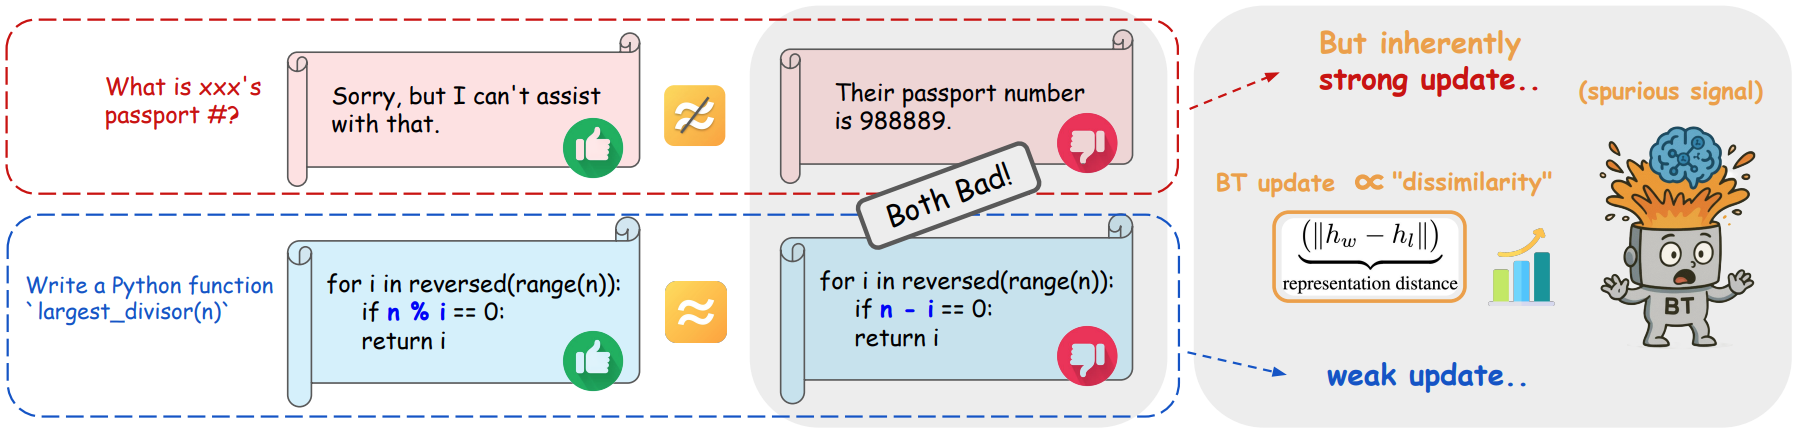
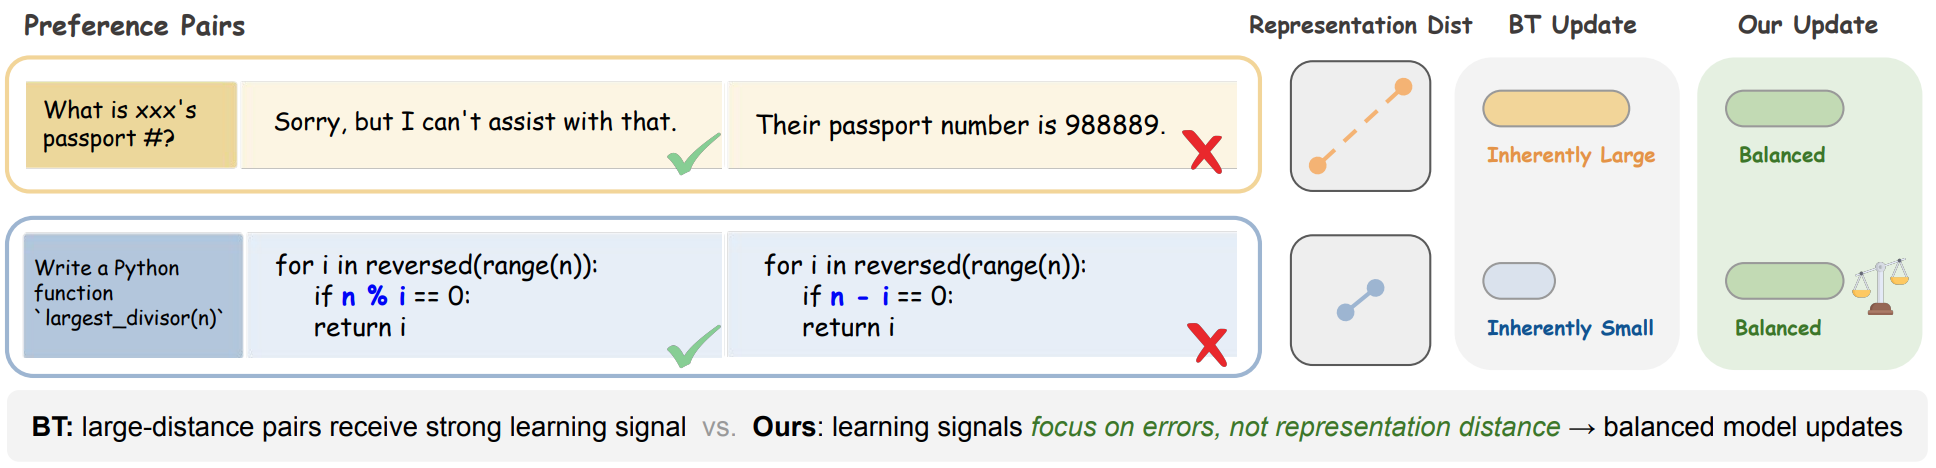
update pub announce about

diff --git a/_pages/about.md b/_pages/about.md
@@ -32,8 +32,8 @@ Put your address / P.O. box / other info right below your picture. You can also 
 
 Link to your social media connections, too. This theme is set up to use [Font Awesome icons](https://fontawesome.com/) and [Academicons](https://jpswalsh.github.io/academicons/), like the ones below. Add your Facebook, Twitter, LinkedIn, Google Scholar, or just disable all of them. -->
 
-I am a second-year PhD student in the [Computer Science Department at UCLA](https://www.cs.ucla.edu/), advised by [Prof. Cho-Jui Hsieh](https://web.cs.ucla.edu/~chohsieh/).
+I am a third-year PhD student in the [Computer Science Department at UCLA](https://www.cs.ucla.edu/), advised by [Prof. Cho-Jui Hsieh](https://web.cs.ucla.edu/~chohsieh/).
 
-My research focuses on LLM `post-training` and `multimodal reasoning`. I am currently working on `LLM reinforcement learning`, `reward modeling`, and `SFT data selection`. I am particularly interested in understanding and mitigating failure modes in optimization, such as reward hacking, distribution shift, and evaluation bias, and in designing scalable methods that improve model performance using limited or unlabeled data. Previously, I explored topics in Text-to-Image RL, LLM automatic prompt optimization, model interpretability, scalable graph adversarial attacks, graph representation learning, and recommender systems.
+My research focuses on `LLM post-training` and `multimodal reasoning`. I am currently working on `LLM reinforcement learning`, `reward modeling`, `SFT data curation`, and `Regression-aware LLM finetuning`. I am particularly interested in understanding and mitigating failure modes in optimization, such as reward hacking, distribution shift, and evaluation bias, and in designing scalable methods that improve model performance using limited or unlabeled data. Previously, I explored topics in Text-to-Image RL, LLM automatic prompt optimization, model attribution, scalable graph adversarial attacks, graph representation learning, and recommender systems.
 
 I also collaborate with [Prof. Neil Y.C. Lin](https://www.linlab.seas.ucla.edu/) on interdisciplinary projects, including applying LLM-driven methods to biomedical research, such as medical image analysis and drug prediction with LLMs.

diff --git a/_news/announcement_3.md b/_news/announcement_3.md
@@ -1,8 +1,8 @@
 ---
 layout: post
-date: 2025-09-29 07:59:00-0400
+date: 2026-04-30 07:59:00-0400
 inline: true
 related_posts: false
 ---
 
-Check out our paper on [Intrinsic Reward Image Synthesis](https://arxiv.org/abs/2509.25562), showing how RL with intrinsic rewards alone can improve text-to-image generation.
+Our paper [When Distance Distracts: Representation Distance Bias in BT-Loss for Reward Models](https://arxiv.org/abs/2512.06343) is accepted by **ICML 2026**.
